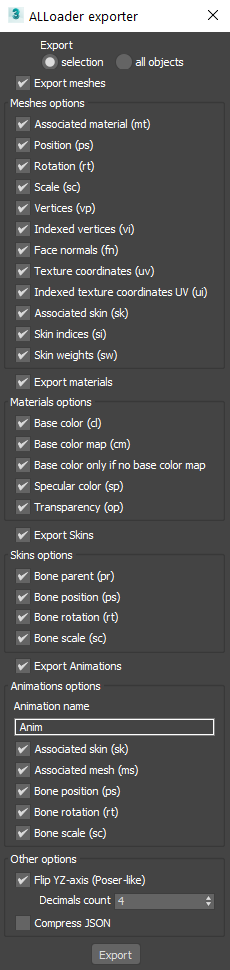
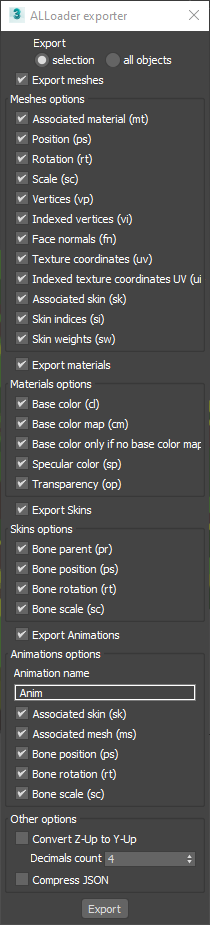
Implement Z-Up to Y-Up

diff --git a/index.html b/index.html
@@ -96,8 +96,12 @@
 			container.appendChild(renderer.domElement);
 
 			camera = new THREE.PerspectiveCamera(60, window.innerWidth / window.innerHeight, 0.1, 10000);
+			// Y-UP AXIS
+			//camera.up.set(0, 1, 0);
+			//camera.position.set(-6, 6, 6);
+			// Z-UP AXIS
 			camera.up.set(0, 0, 1);
-			camera.position.set(-6, -6, 4);
+			camera.position.set(-6, -6, 6);
 
 			controls = new OrbitControls(camera, container);
 			//controls.autoRotate = true;
